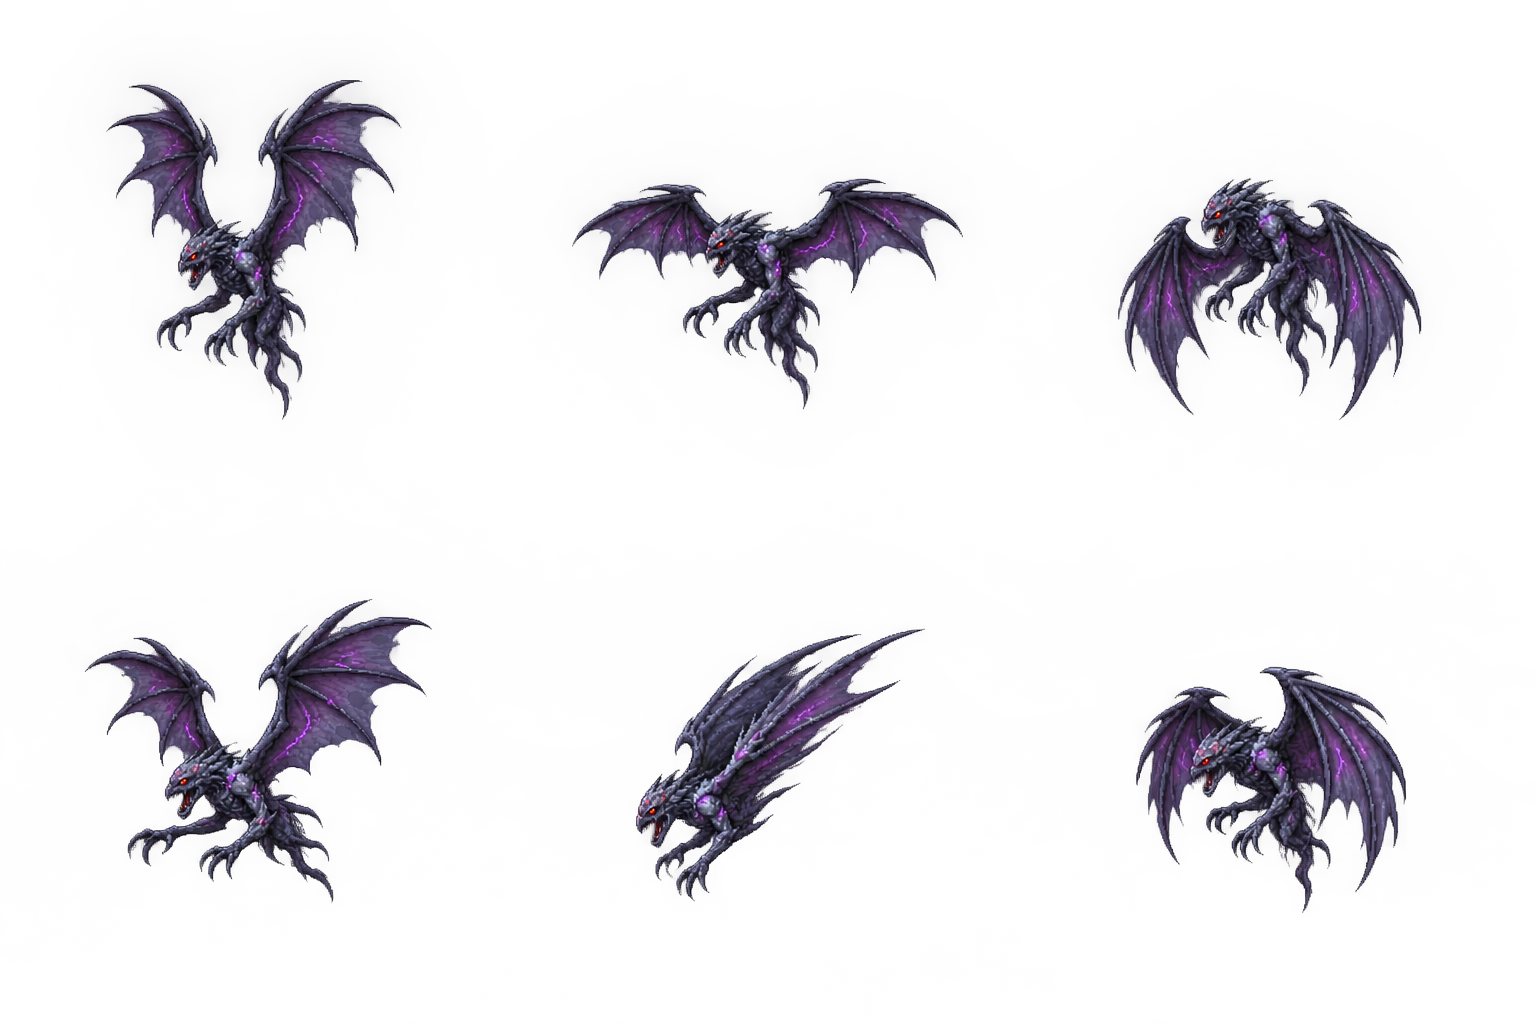
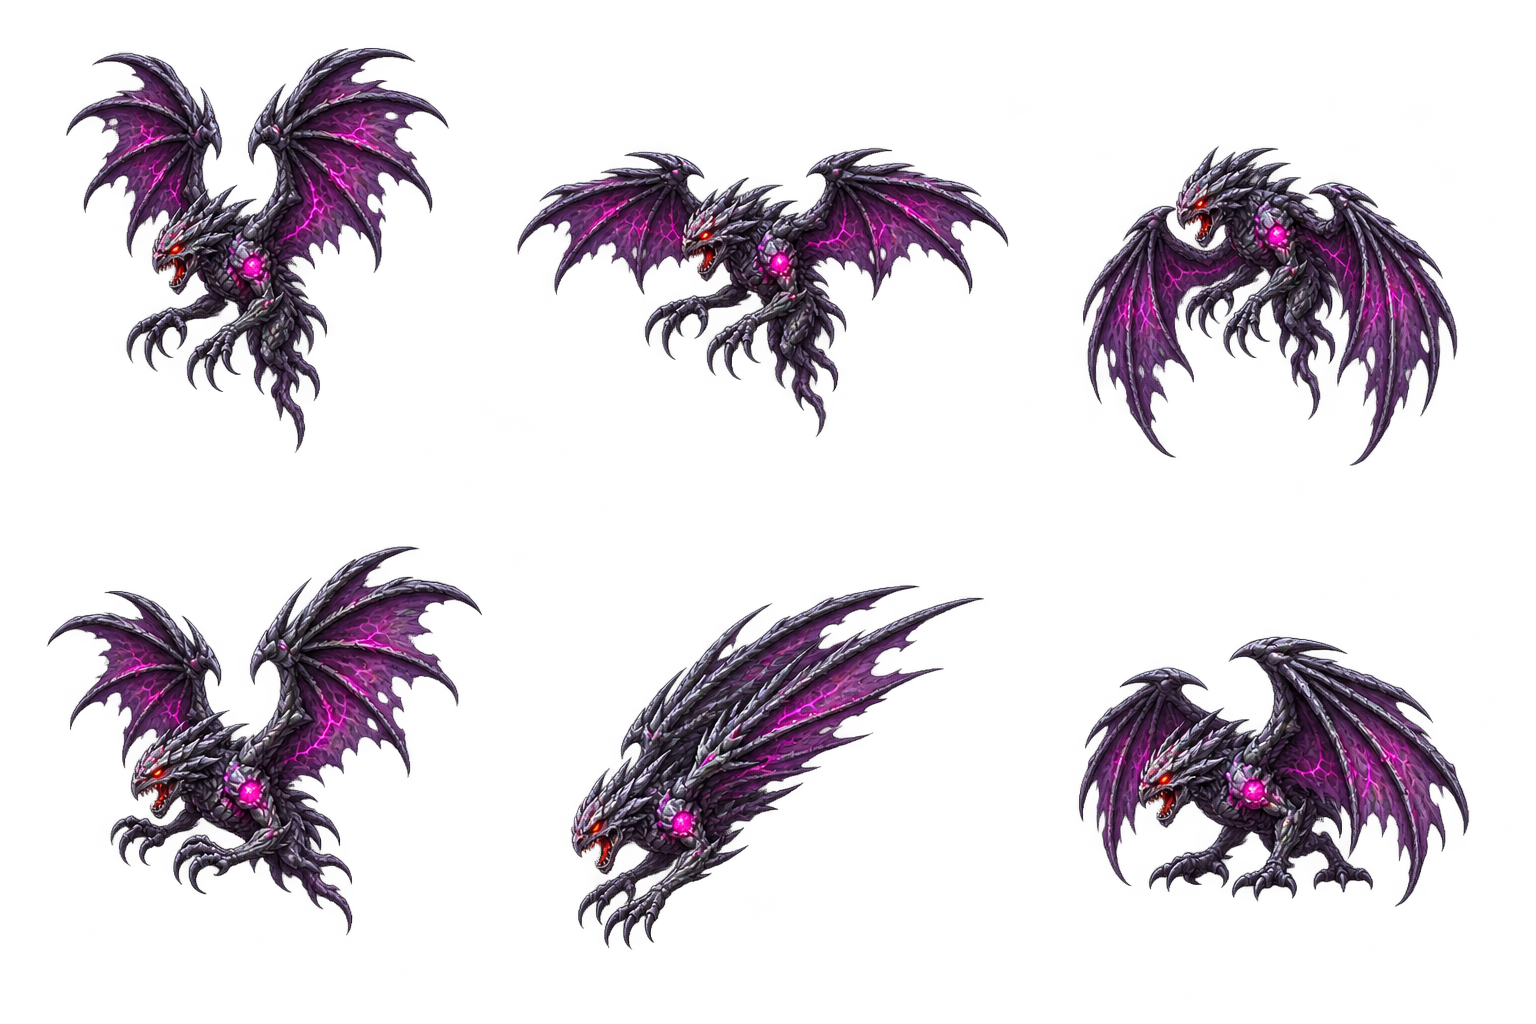
비행형 외형과 고정 급강하 예고 및 층별 공격 규칙 개선

diff --git a/wraith.py b/wraith.py
@@ -6,6 +6,10 @@ from physics import Motion
 from combat import overlaps
 from light_bomb import blocked_segment
 
+WINDUP_TIME=.9
+DIVE_TIME=.5
+RECOVERY_TIME=1.2
+
 
 class Wraith(Shade):
     kind='wraith'
@@ -102,18 +106,18 @@ class Wraith(Shade):
         if self.state in ('STUNNED','RETREAT'):
             self._enter('FLY_PATROL');self.dive_cooldown=1.0
         if self.state=='DIVE_WINDUP':
-            if self.state_time>=.75:
+            if self.state_time>=WINDUP_TIME:
                 self._enter('DIVE');self.dive_hit=False
             return
         if self.state=='DIVE':
-            if (self.state_time>=.5 or self.dive_target is None
+            if (self.state_time>=DIVE_TIME or self.dive_target is None
                     or not self._fly(self.dive_target,460,dt)):
                 self._enter('RECOVER')
                 return
             self.attack_event=self.get_attack_box()
             return
         if self.state=='RECOVER':
-            if self.state_time>=1:
+            if self.state_time>=RECOVERY_TIME:
                 self._enter('FLY_PATROL');self.dive_cooldown=1.6
             return
         # 빛을 가로질러 플레이어에게 진입하지 않는다.
@@ -123,7 +127,9 @@ class Wraith(Shade):
         path_lit=(light is not None and light.active and
                   light.illuminates((min(self.x,player.x)-24,min(self.feet_y,player.feet_y),
                                      max(self.x,player.x)+24,max(self.feet_y+48,player.feet_y+88))))
-        if (left<=player.x<=right and abs(player.x-self.x)<384 and clear and not path_lit
+        same_floor=abs(player.feet_y-self.spawn_position[1])<=48
+        grounded=getattr(getattr(player,'motion',None),'on_ground',True)
+        if (same_floor and grounded and left<=player.x<=right and abs(player.x-self.x)<384 and clear and not path_lit
                 and self.dive_cooldown<=0 and self.feet_y>player.feet_y+50):
             self.face_dir=1 if player.x>self.x else -1
             self.dive_target=target;self._enter('DIVE_WINDUP');return
@@ -138,7 +144,7 @@ class Wraith(Shade):
     def draw(self,camera_x=0,signals=True):
         if self.state=='DEAD':return
         from enemy_art import draw_enemy
-        frame=5 if not self.alive or self.hurt_time>0 else 4 if self.state=='DIVE' else 3 if self.state=='DIVE_WINDUP' else int(self.clock*7)%3
+        frame=5 if not self.alive or self.hurt_time>0 or self.state=='RECOVER' else 4 if self.state=='DIVE' else 3 if self.state=='DIVE_WINDUP' else int(self.clock*7)%3
         draw_enemy(self,'wraith',frame,camera_x)
         if signals:self.draw_signals(camera_x)
 
@@ -154,9 +160,18 @@ class Wraith(Shade):
         if self.state=='DIVE_WINDUP' and self.dive_target:
             tx,ty=self.dive_target
             with blended():
+                glow(self.x-camera_x,self.feet_y+24,12,(245,82,200),alpha=140)
                 for i in range(0,20,2):
                     a,b=i/20,(i+1)/20
                     pico2d.draw_line(self.x-camera_x+(tx-self.x)*a,self.feet_y+24+(ty-self.feet_y)*a,
                                       self.x-camera_x+(tx-self.x)*b,self.feet_y+24+(ty-self.feet_y)*b,
                                       232,121,248,a=170)
                 glow(tx-camera_x,ty,18,(207,91,240),alpha=95)
+                # 고정된 목표와 남은 준비 시간을 어둠 위에서도 읽게 한다.
+                progress=min(1,self.state_time/WINDUP_TIME)
+                pico2d.draw_circle(tx-camera_x,ty,19-progress*9,248,117,206,a=210)
+                pico2d.draw_rectangle(self.x-camera_x-18,self.feet_y+86,
+                                      self.x-camera_x+18,self.feet_y+90,53,30,58,filled=True)
+                pico2d.draw_rectangle(self.x-camera_x-18,self.feet_y+86,
+                                      self.x-camera_x-18+36*progress,self.feet_y+90,
+                                      245,125,209,filled=True)

diff --git a/tests/test_enemy_variants.py b/tests/test_enemy_variants.py
@@ -65,7 +65,7 @@ class EnemyVariantTests(unittest.TestCase):
         self.assertEqual(w.state,'DIVE_WINDUP')
         target=w.dive_target
         self.p.x=700
-        for _ in range(91):w.update(1/120,self.p,self.s)
+        for _ in range(109):w.update(1/120,self.p,self.s)
         self.assertEqual(w.dive_target,target)
         for _ in range(61):w.update(1/120,self.p,self.s)
         self.assertEqual(w.state,'RECOVER')
@@ -112,3 +112,11 @@ class EnemyVariantTests(unittest.TestCase):
         self.assertEqual(w.hit_pause.remaining,0)
         self.assertEqual(w.state,'RETREAT')
         self.assertNotEqual((w.x,w.feet_y),before[:2])
+
+    def test_wraith_does_not_dive_at_lower_floor_or_climbing_player(self):
+        w=Wraith(500,288,combat_bounds=(200,800));w.dive_cooldown=0
+        for _ in range(240):w.update(1/120,self.p,self.s)
+        self.assertNotIn(w.state,('DIVE','DIVE_WINDUP'))
+        self.p.feet_y=288;self.p.motion.on_ground=False
+        for _ in range(100):w.update(1/120,self.p,self.s)
+        self.assertNotIn(w.state,('DIVE','DIVE_WINDUP'))

diff --git a/enemy_art.py b/enemy_art.py
@@ -28,7 +28,7 @@ def draw_halo(x,y,angle=0,size=36):
 
 def draw_enemy(enemy,kind,frame,camera_x=0):
     image,data=load(kind);f=data['frames'][frame]
-    l,t,r,b=f['bounds'];ax,ay=f['anchor'];s=(94 if kind=='wraith' else 116)/data['reference_height']
+    l,t,r,b=f['bounds'];ax,ay=f['anchor'];s=(112 if kind=='wraith' else 116)/data['reference_height']
     opacity=max(0,1-enemy.state_time/.8) if not enemy.alive else 1
     image.opacify(opacity)
     x=enemy.x-camera_x; y=enemy.feet_y+(24 if kind=='wraith' else 0)
